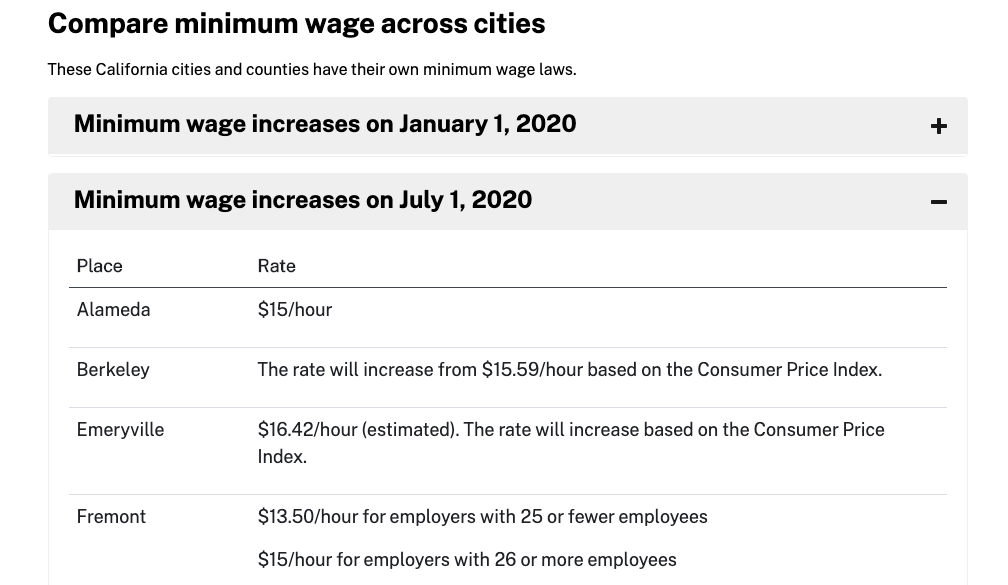
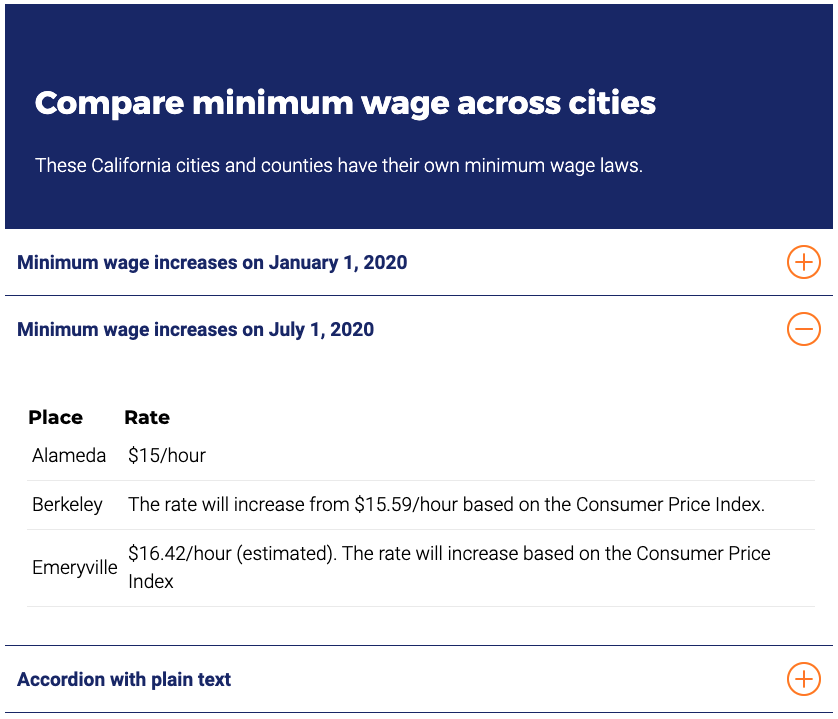
update accordion to v2.0.10

diff --git a/packages/@cagov/accordion/src/index.js b/packages/@cagov/accordion/src/index.js
@@ -1,21 +1,40 @@
 export class CaGovAccordion extends window.HTMLElement {
-  connectedCallback () {
+  connectedCallback() {
     this.classList.add('prog-enhanced');
     this.expandTarget = this.querySelector('.card-container');
     this.expandButton = this.querySelector('.card-header');
     this.expandButton.addEventListener('click', this.listen.bind(this));
     this.activateButton = this.querySelector('.card-header');
     this.eventType = this.dataset.eventType ? this.dataset.eventType : 'click';
-    // Detect if accordion should open by default.
+    this.addStyle(this); // Add local styles
+
+    // Detect if accordion should open by default
     let expanded = this.activateButton.getAttribute('aria-expanded');
     if (expanded === "true") {
       this.triggerAccordionClick(); // Open the accordion.
-    } else {
-      // this.closeAccordion(); // Update tabindex for automatically unopened accordions.
+      let allLinks = this.querySelectorAll(".card-container a");
+      for (var i = 0; i < allLinks.length; i++) {
+        allLinks[i].removeAttribute("tabindex"); // remove tabindex from all the links
+      }
+      for (var i = 0; i < allbuttons.length; i++) {
+        allbuttons[i].removeAttribute("tabindex"); // remove tabindex from all the buttons
+      }
+    }
+    // making sure that all links inside of the accordion container are having tabindex -1
+    else {
+      let allLinks = this.querySelectorAll(".card-container a");
+      let allbuttons = this.querySelectorAll(".card-container button");
+      for (var i = 0; i < allLinks.length; i++) {
+        allLinks[i].setAttribute('tabindex', '-1');
+      }
+  
+      for (var i = 0; i < allbuttons.length; i++) {
+        allbuttons[i].setAttribute('tabindex', '-1');
+      }
     }
   }
 
-  listen () {
+  listen() {
     if (!this.cardBodyHeight) {
       this.cardBodyHeight = this.querySelector('.card-body').clientHeight;
     }
@@ -36,49 +55,45 @@ export class CaGovAccordion extends window.HTMLElement {
   }
 
   expandAccordion() {
-    // console.log("expanding accordion");
     this.expandTarget.style.height = '0px';
     this.expandTarget.setAttribute('aria-hidden', 'true');
     this.querySelector('.card-header').classList.remove('accordion-alpha-open');
     this.activateButton.setAttribute('aria-expanded', 'false');
-    var allLinks = document.querySelectorAll("cagov-accordion .card-container a");
-    var allbuttons = document.querySelectorAll("cagov-accordion .card-container button");
-    for (var i=0; i < allLinks.length; i++) {
+    let allLinks = this.querySelectorAll(".card-container a");
+    let allbuttons = this.querySelectorAll(".card-container button");
+    for (var i = 0; i < allLinks.length; i++) {
       allLinks[i].setAttribute('tabindex', '-1'); // tabindex to all links
     }
-    for (var i=0; i < allbuttons.length; i++) {
+    for (var i = 0; i < allbuttons.length; i++) {
       allbuttons[i].setAttribute('tabindex', '-1'); // tabindex to all buttons
     }
   }
-  
+
   closeAccordion() {
-  // console.log("close accordion");
     this.expandTarget.style.height = this.cardBodyHeight + 'px';
     this.expandTarget.setAttribute('aria-hidden', 'false');
     this.querySelector('.card-header').classList.add('accordion-alpha-open');
     this.querySelector('.card-container').classList.remove('collapsed');
     this.activateButton.setAttribute('aria-expanded', 'true');
-    var allLinks = document.querySelectorAll("cagov-accordion .card-container a");
-    var allbuttons = document.querySelectorAll("cagov-accordion .card-container button");
-    for (var i=0; i < allLinks.length; i++) {
+    let allLinks = this.querySelectorAll(".card-container a");
+    let allbuttons = this.querySelectorAll(".card-container button");
+    for (var i = 0; i < allLinks.length; i++) {
       allLinks[i].removeAttribute("tabindex"); // remove tabindex from all the links
     }
-    for (var i=0; i < allbuttons.length; i++) {
+    for (var i = 0; i < allbuttons.length; i++) {
       allbuttons[i].removeAttribute("tabindex"); // remove tabindex from all the buttons
     }
   }
+
+
+  // Add accordion styles here
+  addStyle(element) {
+    const style = document.createElement("style");
+    style.textContent = `
+cagov-accordion .card{border-radius:0!important;border:none;margin-bottom:0;position:relative;display:flex;flex-direction:column;min-width:0;word-wrap:break-word;background-color:#fff;background-clip:border-box}cagov-accordion .card-container{display:block;overflow:hidden}cagov-accordion .card-container[aria-hidden=false]{border-bottom:1px solid #1f2574}cagov-accordion.prog-enhanced .card-container{height:0;transition:height .3s ease}cagov-accordion .collapsed{display:block;overflow:hidden;visibility:hidden}.card-header .button{color:#000}.accordion{margin-bottom:20px}.accordion-title{text-align:left;margin-bottom:0;color:#1f2574;margin-right:auto;width:90%;padding:0 .5rem 0 0!important}.accordion-title h2,.accordion-title h3,.accordion-title h4{padding:0!important;margin-top:0!important;margin-bottom:0!important;font-family:Roboto,sans-serif;font-size:1.2rem!important;font-weight:700;color:#1f2574;text-align:left!important}button.card-header{display:flex;justify-content:left;align-items:center;padding:1rem .75rem;background-clip:border-box;background-color:#fff;border:none;border-bottom:1px solid #1f2574;border-top:1px solid #1f2574;border-radius:0!important;margin-top:-1px}button.card-header:hover{background-color:#f2f5fc}button.card-header:focus{outline:2px solid #ffcf44;outline-offset:-2px}.prog-enhanced .accordion-alpha .plus-munus{width:2.125rem;height:2.125rem;border:2px solid #ff8000;border-radius:50%;padding:0;overflow:hidden;transition:all .3s ease;margin-left:1rem;color:#ff8000;align-self:flex-start}.prog-enhanced .accordion-alpha .plus-munus agov-plus .accordion-icon{display:block}.prog-enhanced .accordion-alpha .plus-munus cagov-minus .accordion-icon{display:none}.prog-enhanced .accordion-alpha-open{border-bottom-color:#fff!important}.prog-enhanced .accordion-alpha-open cagov-plus .accordion-icon{display:none}.prog-enhanced .accordion-alpha-open cagov-minus .accordion-icon{display:block!important}.dark-accordion-bg>.container.dark-accordion-first{padding-top:3rem;margin-top:3rem;padding-bottom:0;margin-bottom:0}.dark-accordion-bg>.container{padding-top:3rem;margin-top:3rem;padding-bottom:3rem;margin-bottom:3rem}.dark-accordion-sibling>.container{padding-top:0;padding-bottom:0;margin-top:0;margin-bottom:0}.dark-accordion-sibling+.dark-accordion-bg>.container{padding-top:0;margin-top:0;padding-bottom:3rem;margin-bottom:3rem}.dark-accordion-bg .card{background-color:#1f2574}.dark-accordion-bg .card .accordion-alpha{background-color:#1f2574;border-bottom:1px solid #4c5190;border-top:1px solid #4c5190}.dark-accordion-bg .card .accordion-alpha.accordion-alpha-open{border-bottom-color:#1f2574!important}.dark-accordion-bg .card .accordion-alpha:focus,.dark-accordion-bg .card .accordion-alpha:hover{background-color:#003d9d}.dark-accordion-bg .card .accordion-alpha .accordion-title{color:#fff}.dark-accordion-bg .card .accordion-alpha .accordion-title h2,.dark-accordion-bg .card .accordion-alpha .accordion-title h3,.dark-accordion-bg .card .accordion-alpha .accordion-title h4{color:#fff}.dark-accordion-bg .card .card-container{color:#fff}.dark-accordion-bg .card .card-container[aria-hidden=false]{border-bottom:1px solid #4c5190}.dark-accordion-bg .card .card-container h2,.dark-accordion-bg .card .card-container h3,.dark-accordion-bg .card .card-container h4,.dark-accordion-bg .card .card-container h5{color:#fff}.bg-darkblue .dark-accordion-bg>.container.dark-accordion-first{padding-top:1rem;margin-top:0;padding-bottom:0;margin-bottom:0}.fill-orange{fill:#ff8000!important}.card-body{padding:.55rem .45rem .55rem .75rem;color:#000;line-height:1.5}.card-body p{font-family:Roboto,sans-serif;font-weight:300}
+    `;
+    element.appendChild(style);
+  }
+
 }
 window.customElements.define('cagov-accordion', CaGovAccordion);
-
-
-
-// making sure that all links inside of the accordion container are having tabindex -1
-var allLinks = document.querySelectorAll("cagov-accordion .card-container a");
-var allbuttons = document.querySelectorAll("cagov-accordion .card-container button");
-for (var i=0; i < allLinks.length; i++) {
-allLinks[i].setAttribute('tabindex', '-1'); 
-}
-
-for (var i=0; i < allbuttons.length; i++) {
-allbuttons[i].setAttribute('tabindex', '-1');
-}

diff --git a/packages/@cagov/accordion/stories/index.stories.js b/packages/@cagov/accordion/stories/index.stories.js
@@ -1,5 +1,6 @@
 import { WebComponent, MultipleWebComponent, MultipleWebComponentLongPage } from "./storybook-web-component";
 import { html } from "lit-html";
+import './index.scss';
 
 export default {
   title: "@cagov/accordion",
@@ -79,30 +80,32 @@ MultipleAccordions.storyName = "Three accordions, middle item open";
 MultipleAccordions.args = {
   accordions: [
     {
-      accordionLabel: "Accordion1 label",
-      accordionContent: html`<p>Second generation vaccines were developed to reduce the risks from live vaccines. These are subunit vaccines, consisting of specific protein antigens (such as tetanus or diphtheria toxoid) or recombinant protein components (such as the hepatitis B surface antigen). They can generate TH and antibody responses, but not killer T cell responses.</p>
-
-      <p>RNA vaccines and DNA vaccines are examples of third generation vaccines.mRNA vaccines such as BNT162b2 were developed in the year 2020 with the help of Operation Warp Speed and massively deployed to combat the coronavirus pandemic.</p>
-      
-      <p>Since at least 2013, scientists were trying to develop synthetic 3rd-generation vaccines by reconstructing the outside structure of a virus; it was hoped that this will help prevent vaccine resistance.</p><p><a href="https://www.boom-online.co.uk/lorem-ipsum/">Source: Boom text generator</a></p>`,
+      accordionLabel: "Minimum wage increases on January 1, 2020",
+      accordionContent: html`<table>
+      <thead><tr><th>Place</th><th>Rate</th></tr></thead>
+      <tbody>
+      <tr><td>Alameda</td><td> </td></tr>
+      <tr><td>Berkeley</td><td></td></tr>
+      <tr><td>Emeryville</td><td></td></tr>
+      </tbody>
+      </table><a href="google.com">link inside of closed accordion</a>`,
       expanded: false,
     },
     {
-      accordionLabel: "Accordion2 label",
-      accordionContent: html`<p>The filing of patents on vaccine development processes can also be viewed as an obstacle to the development of new vaccines. Because of the weak protection offered through a patent on the final product, the protection of the innovation regarding vaccines is often made through the patent of processes used in the development of new vaccines as well as the protection of secrecy.</p>
-
-      <p>Vaccine production has several stages. First, the antigen itself is generated. Viruses are grown either on primary cells such as chicken eggs (e.g., for influenza) or on continuous cell lines such as cultured human cells (e.g., for hepatitis A).</p>
-      
-      <p>The final stage in vaccine manufacture before distribution is fill and finish, which is the process of filling vials with vaccines and packaging them for distribution. Although this is a conceptually simple part of the vaccine manufacture process, it is often a bottleneck in the process of distributing and administering vaccines.</p><p><a href="https://www.boom-online.co.uk/lorem-ipsum/">Source: Boom text generator</a></p>`,
+      accordionLabel: "Minimum wage increases on July 1, 2020",
+      accordionContent: html`<table>
+      <thead><tr><th>Place</th><th>Rate</th></tr></thead>
+      <tbody>
+      <tr><td>Alameda</td><td>$15/hour</td></tr>
+      <tr><td>Berkeley</td><td>The rate will increase from $15.59/hour based on the Consumer Price Index.</td></tr>
+      <tr><td>Emeryville</td><td>$16.42/hour (estimated). The rate will increase based on the Consumer Price Index</td></tr>
+      </tbody>
+      </table><a href="google.com">link inside of open accordion</a>`,
       expanded: true,
     },
     {
-      accordionLabel: "Accordion3 label",
-      accordionContent: html`<p>International research on vaccines and medicines in COVID-19 is underway by government organisations, academic groups, and industry researchers.</p>
-
-      <p>As of December 2020</p>
-      
-      <p>Repurposed antiviral drugs make up most of the research into COVID-19 treatments.</p><p><a href="https://www.boom-online.co.uk/lorem-ipsum/">Source: Boom text generator</a></p>`,
+      accordionLabel: "Accordion with plain text",
+      accordionContent: html`<p>Vivamus rhoncus dictum turpis et ullamcorper. Pellentesque turpis lectus, dignissim in semper rutrum, consequat ut dui. Curabitur ut ullamcorper purus. In venenatis dui faucibus justo mattis fermentum. Quisque erat quam, convallis vel eleifend eget, volutpat et ex. Donec vestibulum elit purus, sit amet interdum lorem feugiat at. Pellentesque vel augue in nisi dignissim congue a nec est. Phasellus tellus risus, egestas vel tincidunt vitae, suscipit eu ante. Quisque feugiat erat sit amet facilisis congue. Donec eget dolor pretium, ultrices purus sed, interdum sem. Sed quis scelerisque est. Vestibulum ligula dui, dignissim eu egestas et, tincidunt eget sem. Quisque ac finibus risus. Fusce cursus rutrum mauris, in laoreet ligula tempus rhoncus. Phasellus porta lorem tortor. Maecenas magna risus, varius accumsan leo et, condimentum posuere est.</p>`,
       expanded: false,
     },
   ]

diff --git a/packages/@cagov/accordion/stories/storybook-web-component.js b/packages/@cagov/accordion/stories/storybook-web-component.js
@@ -55,7 +55,12 @@ export const MultipleWebComponent = ({
     },
   ],
 }) => {
-  return html`${accordions.map((item, i) => [
+  return html`
+  <div class="header">
+    <h2>Compare minimum wage across cities</h2>
+    <p>These California cities and counties have their own minimum wage laws.</p>
+  </div>
+  ${accordions.map((item, i) => [
     html`<div>
       <cagov-accordion>
         <div class="card">

diff --git a/packages/@cagov/accordion/stories/index.scss b/packages/@cagov/accordion/stories/index.scss
@@ -1,0 +1,23 @@
+table {
+    font-weight: 100;
+    margin: 30px 10px;
+    th {
+        font-weight: 100;
+    }
+    td {
+        padding: 10px 5px;
+        border-bottom: 1px solid #ededed;
+    }
+}
+
+.header {
+    margin: 0;
+    padding: 30px;
+    color: #FFF;
+    h2 {
+        color: #FFF;
+    }
+    p {
+        font-weight: 100;
+    }
+}

diff --git a/.storybook/preview-head.html b/.storybook/preview-head.html
@@ -3,4 +3,4 @@
 
 <script src="https://cdn.jsdelivr.net/npm/@popperjs/core@2.6.0/dist/umd/popper.min.js" integrity="sha384-KsvD1yqQ1/1+IA7gi3P0tyJcT3vR+NdBTt13hSJ2lnve8agRGXTTyNaBYmCR/Nwi" crossorigin="anonymous"></script>
 
-<link rel="stylesheet" href="https://staging.covid19.ca.gov/css/build/built.css">
+

diff --git a/packages/@cagov/accordion/README.md b/packages/@cagov/accordion/README.md
@@ -1,9 +1,9 @@
 # Accordion component
 
-This custom element recreates the bootstrap accordion component functionality without the jquery dependency. 
+This custom element recreates the bootstrap accordion component functionality without the jquery dependency.
 It is designed for use on https://covid19.ca.gov.
 
-<img src="https://github.com/cagov/storybook-ca-gov/tree/main/packages/%40cagov/accordion/accordion.png" />
+<img src="https://github.com/cagov/storybook-ca-gov/raw/main/packages/%40cagov/accordion/stories/accordion.png" />
 
 ## Sample markup
 
@@ -16,7 +16,7 @@ It is designed for use on https://covid19.ca.gov.
         <cagov-plus></cagov-plus><cagov-minus></cagov-minus>
       </div>
     </button>
-    <div class="card-container collapsed">
+    <div class="card-container aria-hidden="true" style="height: 0px;">
       <div class="card-body">
         <p>Anim pariatur cliche reprehenderit, enim eiusmod high life accusamus terry richardson ad squid. 3 wolf moon officia aute, non cupidatat skateboard dolor brunch. Food truck quinoa nesciunt laborum eiusmod. Brunch 3 wolf moon tempor, sunt aliqua put a bird on it squid single-origin coffee nulla assumenda shoreditch et. Nihil anim keffiyeh helvetica, craft beer labore wes anderson cred nesciunt sapiente ea proident. Ad vegan excepteur butcher vice lomo. Leggings occaecat craft beer farm-to-table, raw denim aesthetic synth nesciunt you probably haven't heard of them accusamus labore sustainable VHS.</p>
       </div>

diff --git a/packages/@cagov/accordion/CHANGELOG.md b/packages/@cagov/accordion/CHANGELOG.md
@@ -1,5 +1,11 @@
 # CHANGELOG for cagov-accordion
 `cagov-accordion`
+# 2.0.10
+* Fixed tabindex for the links that are inside of the accorions that are open by default.
+
+# 2.0.9
+* Included base css styles inside the accordion component itself so it can run well without any of the global site styles, put initial on page load tabindex generation inside of the callback class.
+* Clean out old code.
 
 # 2.0.8
 * All links and buttons inside of the collapsed accordion container now have attibute tabindex -1, this attribute is removed as soone as accordion container is expanded.
